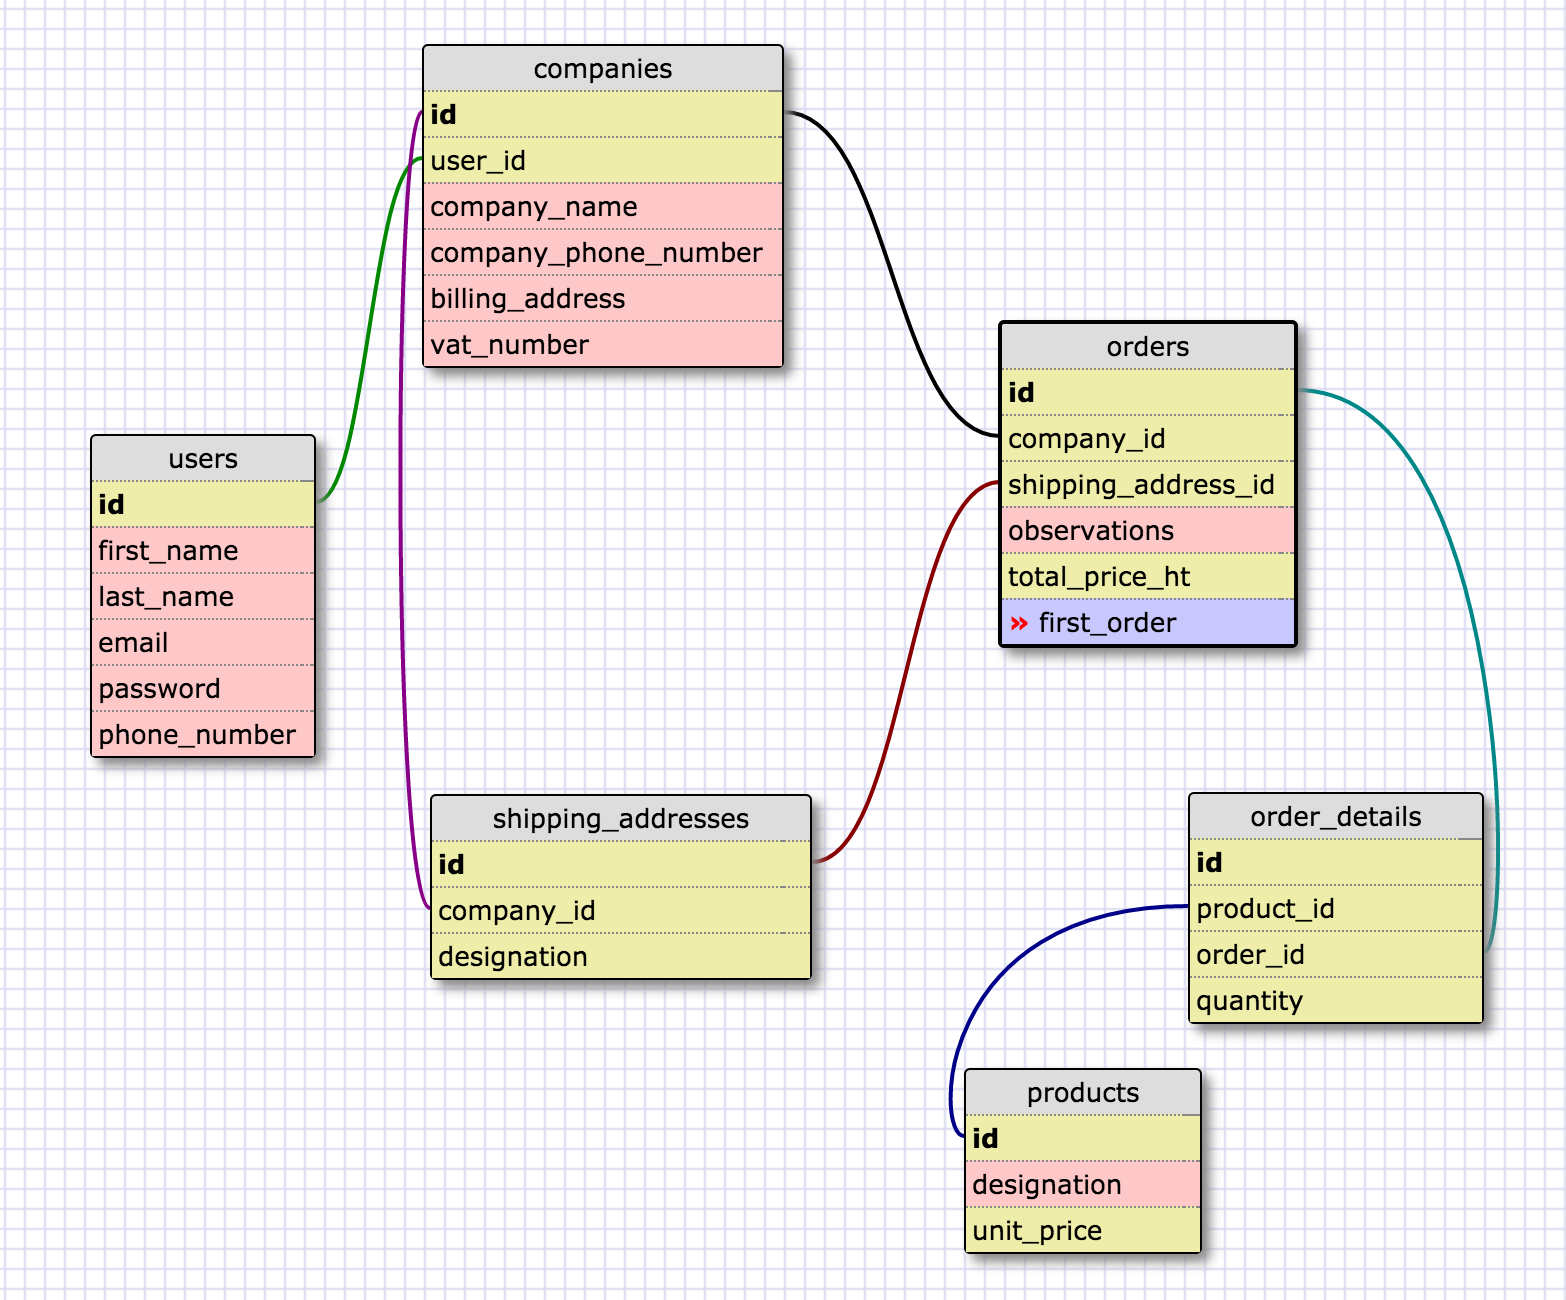
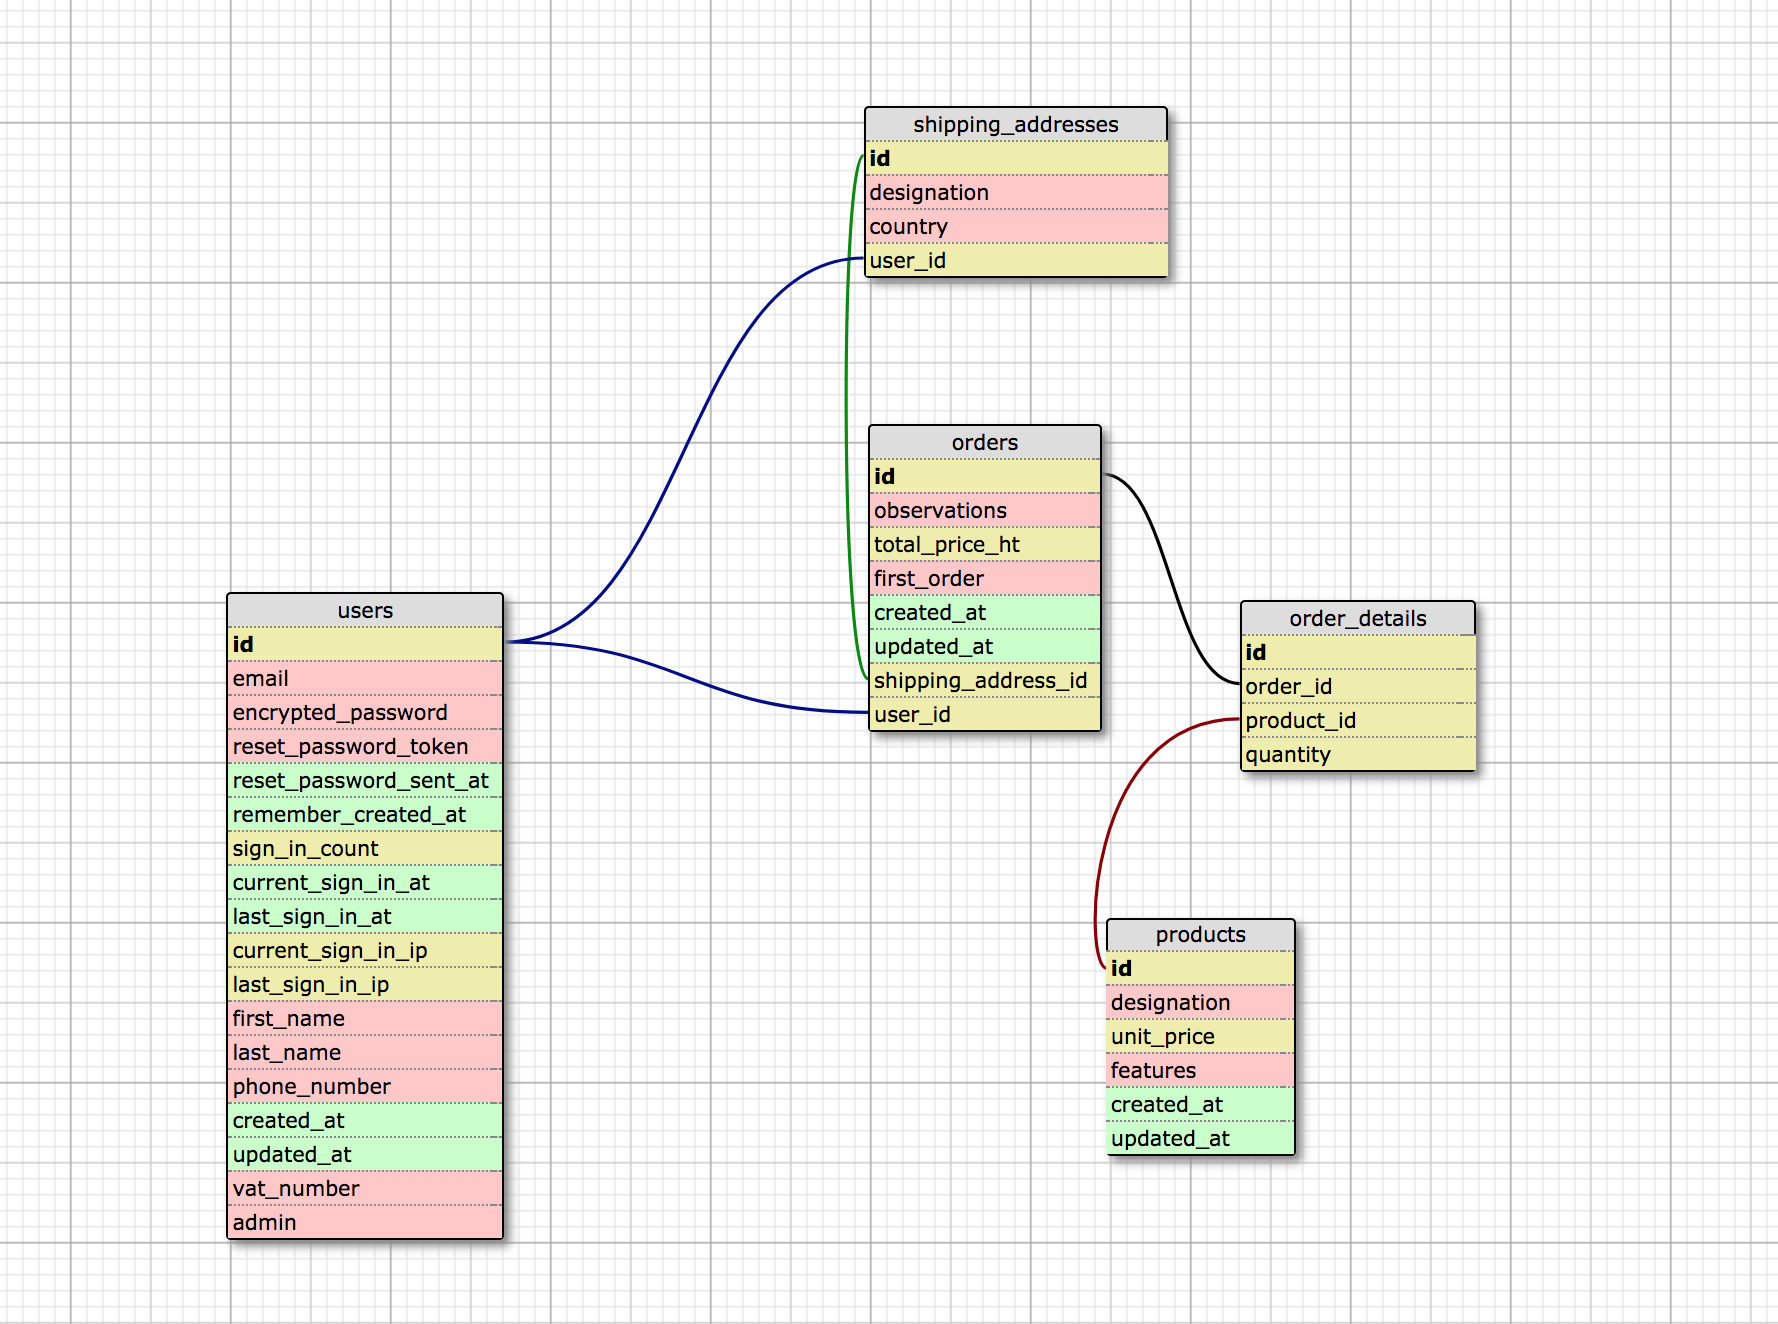
Modify schema + schema designs

diff --git a/db/schema.rb b/db/schema.rb
@@ -10,22 +10,10 @@
 #
 # It's strongly recommended that you check this file into your version control system.
 
-ActiveRecord::Schema.define(version: 20170129142834) do
+ActiveRecord::Schema.define(version: 20171223193627) do
 
   # These are extensions that must be enabled in order to support this database
   enable_extension "plpgsql"
-
-  create_table "companies", force: :cascade do |t|
-    t.string   "name"
-    t.string   "billing_address"
-    t.string   "phone_number"
-    t.string   "vat_number"
-    t.datetime "created_at",      null: false
-    t.datetime "updated_at",      null: false
-    t.integer  "user_id"
-    t.string   "country"
-    t.index ["user_id"], name: "index_companies_on_user_id", using: :btree
-  end
 
   create_table "order_details", force: :cascade do |t|
     t.integer "order_id"
@@ -36,15 +24,15 @@ ActiveRecord::Schema.define(version: 20170129142834) do
   end
 
   create_table "orders", force: :cascade do |t|
-    t.integer  "company_id"
     t.text     "observations"
     t.float    "total_price_ht"
     t.boolean  "first_order"
     t.datetime "created_at",          null: false
     t.datetime "updated_at",          null: false
     t.integer  "shipping_address_id"
-    t.index ["company_id"], name: "index_orders_on_company_id", using: :btree
+    t.integer  "user_id"
     t.index ["shipping_address_id"], name: "index_orders_on_shipping_address_id", using: :btree
+    t.index ["user_id"], name: "index_orders_on_user_id", using: :btree
   end
 
   create_table "products", force: :cascade do |t|
@@ -56,19 +44,19 @@ ActiveRecord::Schema.define(version: 20170129142834) do
   end
 
   create_table "shipping_addresses", force: :cascade do |t|
-    t.integer "company_id"
     t.string  "designation"
     t.string  "country"
-    t.index ["company_id"], name: "index_shipping_addresses_on_company_id", using: :btree
+    t.integer "user_id"
+    t.index ["user_id"], name: "index_shipping_addresses_on_user_id", using: :btree
   end
 
   create_table "users", force: :cascade do |t|
-    t.string   "email",                  default: "", null: false
-    t.string   "encrypted_password",     default: "", null: false
+    t.string   "email",                  default: "",    null: false
+    t.string   "encrypted_password",     default: "",    null: false
     t.string   "reset_password_token"
     t.datetime "reset_password_sent_at"
     t.datetime "remember_created_at"
-    t.integer  "sign_in_count",          default: 0,  null: false
+    t.integer  "sign_in_count",          default: 0,     null: false
     t.datetime "current_sign_in_at"
     t.datetime "last_sign_in_at"
     t.inet     "current_sign_in_ip"
@@ -76,16 +64,17 @@ ActiveRecord::Schema.define(version: 20170129142834) do
     t.string   "first_name"
     t.string   "last_name"
     t.string   "phone_number"
-    t.datetime "created_at",                          null: false
-    t.datetime "updated_at",                          null: false
+    t.datetime "created_at",                             null: false
+    t.datetime "updated_at",                             null: false
+    t.string   "vat_number"
+    t.boolean  "admin",                  default: false
     t.index ["email"], name: "index_users_on_email", unique: true, using: :btree
     t.index ["reset_password_token"], name: "index_users_on_reset_password_token", unique: true, using: :btree
   end
 
-  add_foreign_key "companies", "users"
   add_foreign_key "order_details", "orders"
   add_foreign_key "order_details", "products"
-  add_foreign_key "orders", "companies"
   add_foreign_key "orders", "shipping_addresses"
-  add_foreign_key "shipping_addresses", "companies"
+  add_foreign_key "orders", "users"
+  add_foreign_key "shipping_addresses", "users"
 end
